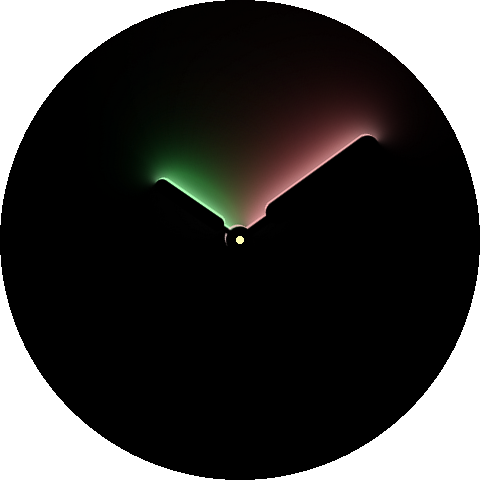
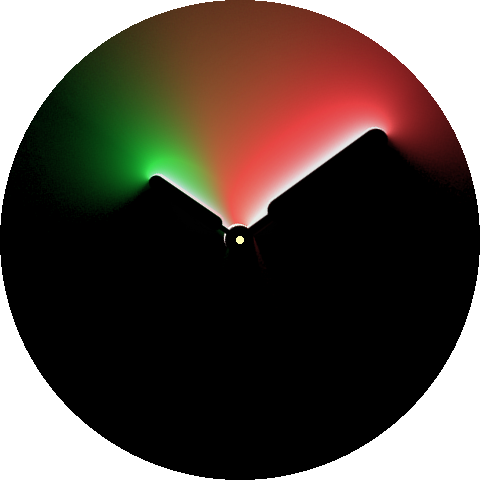
Fix Unity Lights ambient state delivery and calibrate hand proportions

Changed region(s): [[0.0938, 0.0, 1.0, 0.5], [0.5312, 0.5, 0.5625, 0.5312]]

diff --git a/UnityLights/generate.py b/UnityLights/generate.py
@@ -40,7 +40,12 @@ palettes = ('redgreengold','monochrome')
 def sprite(name,img):
     img.save(out/(name+'.png'))
 
-for side, scale in [('hour',.66),('minute',1.10)]:
+# Metal function constants 3..5 are 90, 150 and 154 before device scaling.
+hand_lengths = {'hour': 90, 'minute': 150, 'second': 154}
+dial_scale = 1.2
+native_tip = np.where(mask[:,:,2] > 127)[0].max() + .5 - 400
+for side in ('hour','minute'):
+    scale = hand_lengths[side] * dial_scale / native_tip
     # Normalize the native downward hand to the twelve o'clock position.
     size = round(scale*800)
     planes = []
@@ -69,18 +74,17 @@ for side, scale in [('hour',.66),('minute',1.10)]:
         inner=color(palette,side+'HandInnerColor')
         outer=color(palette,side+'HandOuterColor')
         for mode in ('active','ambient'):
-            if mode=='active':
-                field = bloom**.57*1.26
-                rim = core**2.2
-            else:
-                field = bloom**1.6*.36
-                rim = core**1.7*.48
+            field = bloom**.57*1.26
+            rim = core**2.2
             yy,xx=np.indices(field.shape)
             forward=(340-yy)/np.maximum(1,np.hypot(340-yy,xx-340))
             attenuation=np.clip((forward+.35)/.78,0,1)
             field*=attenuation*attenuation*(3-2*attenuation)
             rgb=np.clip(field[:,:,None]*outer+rim[:,:,None]*inner,0,1)
             # Store straight-alpha light so fully black pixels remain transparent.
+            if mode=='ambient':
+                # Use the firmware's non-vibrancy end alpha with the same light footprint.
+                rgb*=.90
             alpha=rgb.max(axis=2)
             rgba=np.dstack((rgb/np.maximum(alpha[:,:,None],1e-8),alpha))
             sprite(f'{side}_{idx}_{mode}',Image.fromarray(np.uint8(rgba*255+.5)))
@@ -89,7 +93,7 @@ for idx,pal in enumerate(palettes):
     ink=tuple(np.uint8(color(pal,'secondHandColor')*255))+(255,)
     im=Image.new('RGBA',(480,480))
     d=ImageDraw.Draw(im)
-    d.line((240,38,240,256), fill=ink,width=2)
+    d.line((240,240-round(hand_lengths['second']*dial_scale),240,256), fill=ink,width=2)
     sprite(f'second_{idx}',im)
     pin=Image.new('RGBA',(12,12))
     ImageDraw.Draw(pin).ellipse((2,2,9,9),fill=tuple(np.uint8(color(pal,'centerGlowColor')*255))+(255,))
@@ -123,6 +127,7 @@ def imagepart(parent,name,x,y,w,h):
 def hand(clock,side,name,size):
     h=node(clock,side.title()+'Hand',resource=name,**box((480-size)//2,(480-size)//2,size,size),pivotX='.5',pivotY='.5')
     if side=='second':
+        node(h,'Variant',mode='AMBIENT',target='alpha',value=0,duration=0)
         node(h,'Sweep',frequency=15)
     return h
 for shape in ('full','inset'):
@@ -187,7 +192,10 @@ def preview(idx=0,inset=False,detailed=False,ambient_mode=False,minute=9):
     canvas=Image.composite(canvas,Image.new('RGBA',canvas.size),circle)
     return canvas
 for name,kw in [('preview',{}),('option_full',{}),('option_inset',dict(inset=True)),('option_simple',{}),('option_detailed',dict(detailed=True))]:
-    sprite(name,preview(**kw))
+    artwork=preview(**kw)
+    if name.startswith('option_'):
+        artwork=artwork.resize((192,192),Image.Resampling.LANCZOS)
+    sprite(name,artwork)
 for name,kw in [('gallery',{}),('ambient',dict(ambient_mode=True)),('monochrome',dict(idx=1,inset=True,detailed=True,minute=28))]:
     preview(**kw).save(gallery/(name+'.png'))
 
@@ -238,4 +246,7 @@ for asset in sorted({e.get('resource') for e in face.iter() if e.tag in ('HourHa
         el.set('pivotX',str((240-x)/w))
         el.set('pivotY',str((240-y)/h))
 save_xml(face,res/'raw/watchface.xml')
+
+
+
 

diff --git a/README.md b/README.md
@@ -158,6 +158,6 @@ The default lavender and three numeral silhouettes were sampled from the Apple g
 | :---: | :---: | :---: |
 | <img src="UnityLights/screenshots/gallery.png" width="200"> | <img src="UnityLights/screenshots/ambient.png" width="200"> | <img src="UnityLights/screenshots/monochrome.png" width="200"> |
 
-以上为布局渲染图。时针和分针分别带动光场，圆形内盘可显示四个 Wear OS 系统组件。光场来自 watchOS 24S132 的 Coltan 指针纹理及配色，在 WFF 中分层合成。交叠阴影和息屏光强为近似值。
+以上为布局渲染图。时针和分针分别带动光场，圆形内盘可显示四个 Wear OS 系统组件。光场来自 watchOS 24S132 的 Coltan 指针纹理及配色，在 WFF 中分层合成。24S132 固件的时、分、秒针长度常量依次为 90、150、154。息屏保留时分针光场，隐藏秒针；交叠阴影和面板亮度为近似值。1.1 修复了超大编辑选项图标导致三星运行时拒绝切换息屏状态的问题。
 
-[下载团结之光 1.0](https://github.com/Charlie3xtra/galaxy-watch-faces/releases/download/unity-lights-1.0/UnityLights-1.0.apk)
+[下载团结之光 1.1](https://github.com/Charlie3xtra/galaxy-watch-faces/releases/download/unity-lights-1.1/UnityLights-1.1.apk)
